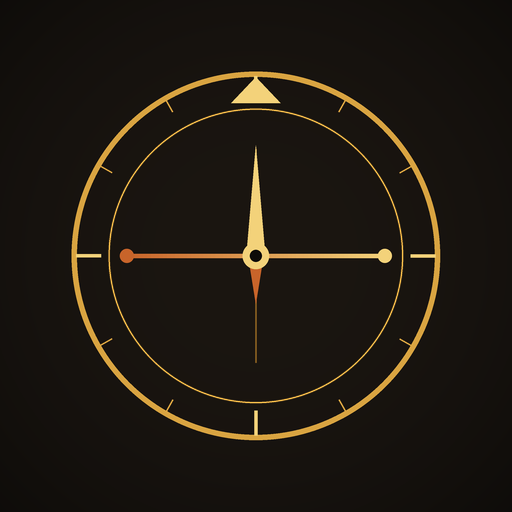
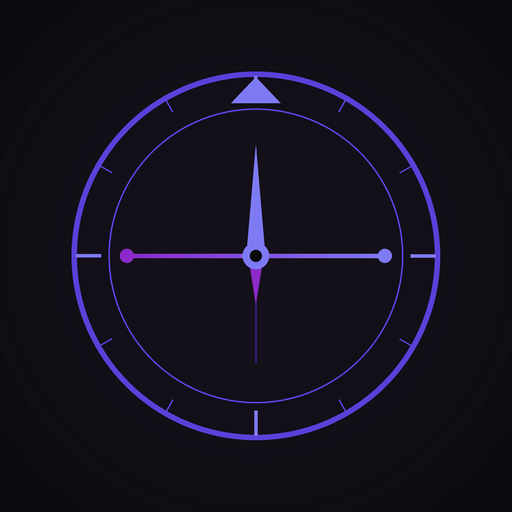
Recolor DRP Compass to indigo, violet, white, and black.
TWGI pages stay sky blue. Service worker cache is twgi-v34.

diff --git a/philosophy/politics/democratic/american/drp/compass/index.html b/philosophy/politics/democratic/american/drp/compass/index.html
@@ -2,7 +2,7 @@
 <html lang="en"><head><meta charset="utf-8"><meta name="viewport" content="width=device-width,initial-scale=1">
 <title>DRP Compass — The Democratic-Republican Party Platform Test</title>
 <link rel="manifest" href="/philosophy/politics/democratic/american/drp/compass/manifest.webmanifest">
-<meta name="theme-color" content="#d9a441">
+<meta name="theme-color" content="#6366f1">
 <meta name="mobile-web-app-capable" content="yes">
 <meta name="apple-mobile-web-app-capable" content="yes">
 <meta name="apple-mobile-web-app-status-bar-style" content="black">
@@ -12,14 +12,14 @@
 <link rel="preconnect" href="https://fonts.googleapis.com"><link href="https://fonts.googleapis.com/css2?family=Cormorant+Garamond:wght@500;600;700&family=Inter:wght@400;500;600&family=Roboto:wght@500&display=swap" rel="stylesheet">
 <link rel="stylesheet" href="/assets/site.css">
 <style>
-:root{--bg:#0d0b09;--panel:#17130f;--line:#2c241b;--gold:#d9a441;--gold2:#f3d27a;--ember:#c8642a;--text:#efe6d6;--mute:#9d907c;--lib:#e8b04a;--con:#b5562b}
+:root{--bg:#000000;--panel:#100e18;--line:#2e2a44;--gold:#a5b4fc;--gold2:#eef0ff;--ember:#c4b5fd;--text:#ffffff;--mute:#b7b2c9;--lib:#a5b4fc;--con:#d8b4fe}
 *{box-sizing:border-box}html{color-scheme:dark}html,body{margin:0;min-height:100%}
-body{background:radial-gradient(1200px 600px at 50% -10%,#2a1c0e 0%,transparent 60%),radial-gradient(800px 500px at 50% 120%,#1e130a 0%,transparent 60%),var(--bg);color:var(--text);font-family:Inter,system-ui,-apple-system,Segoe UI,Roboto,sans-serif;display:flex;flex-direction:column;align-items:center;padding:0 0 40px;min-height:100vh}
+body{background:radial-gradient(1200px 600px at 50% -10%,#1e1848 0%,transparent 60%),radial-gradient(800px 500px at 50% 120%,#160e30 0%,transparent 60%),var(--bg);color:var(--text);font-family:Inter,system-ui,-apple-system,Segoe UI,Roboto,sans-serif;display:flex;flex-direction:column;align-items:center;padding:0 0 40px;min-height:100vh}
 h1,h2,.serif{font-family:"Cormorant Garamond",Georgia,serif}
 .wrap{width:100%;max-width:760px;padding:28px 16px 0}
 .wrap > header{text-align:center;margin-bottom:22px}
-.sigil{width:54px;height:54px;margin:0 auto 10px;border:1px solid var(--gold);border-radius:50%;display:grid;place-items:center;color:var(--gold);font-size:24px;box-shadow:0 0 30px #d9a44133 inset,0 0 24px #d9a44122}
-h1{font-size:clamp(40px,8vw,64px);margin:0;letter-spacing:.04em;background:linear-gradient(180deg,var(--gold2),var(--gold) 55%,#9a6a22);-webkit-background-clip:text;background-clip:text;color:transparent}
+.sigil{width:54px;height:54px;margin:0 auto 10px;border:1px solid var(--gold);border-radius:50%;display:grid;place-items:center;color:var(--gold);font-size:24px;box-shadow:0 0 30px #a5b4fc33 inset,0 0 24px #a5b4fc22}
+h1{font-size:clamp(40px,8vw,64px);margin:0;letter-spacing:.04em;background:linear-gradient(180deg,var(--gold2),var(--gold) 55%,#4338ca);-webkit-background-clip:text;background-clip:text;color:transparent}
 .sub{color:var(--mute);letter-spacing:.18em;text-transform:uppercase;font-size:12px;margin-top:6px}
 .accountbar{display:flex;flex-wrap:wrap;gap:8px 14px;justify-content:center;align-items:center;margin-top:14px}
 .whoami{font-family:"Cormorant Garamond",Georgia,serif;font-size:22px;line-height:1;color:var(--gold2)}
@@ -27,68 +27,68 @@ h1{font-size:clamp(40px,8vw,64px);margin:0;letter-spacing:.04em;background:linea
 .textbtn{background:none;border:0;padding:0;color:var(--gold);cursor:pointer;font:inherit;font-size:13px;letter-spacing:.04em}
 a.textbtn{text-decoration:none}
 .textbtn:hover{color:var(--gold2);text-decoration:underline}
-.textbtn.danger{color:#e07a48}
-.switcher{background:#1a1510;color:var(--text);border:1px solid var(--line);border-radius:8px;padding:6px 8px;font:inherit;font-size:13px;max-width:100%}
+.textbtn.danger{color:#e9d5ff}
+.switcher{background:#14121c;color:var(--text);border:1px solid var(--line);border-radius:8px;padding:6px 8px;font:inherit;font-size:13px;max-width:100%}
 .field{display:block;text-align:left;margin:14px 0;color:var(--mute);font-size:12px;letter-spacing:.08em;text-transform:uppercase}
-.field input,.field textarea,.note-box textarea,.editnote textarea{display:block;width:100%;margin-top:6px;background:#120e0b;color:var(--text);border:1px solid var(--line);border-radius:10px;padding:12px;font:inherit;font-size:15px;letter-spacing:0;text-transform:none}
-.form-error{color:#e07a48;font-size:14px;text-align:left;margin:0}
+.field input,.field textarea,.note-box textarea,.editnote textarea{display:block;width:100%;margin-top:6px;background:#0c0a12;color:var(--text);border:1px solid var(--line);border-radius:10px;padding:12px;font:inherit;font-size:15px;letter-spacing:0;text-transform:none}
+.form-error{color:#e9d5ff;font-size:14px;text-align:left;margin:0}
 .note-box{margin-top:8px;text-align:left}
-.prompt{color:#d9cfbf;font-size:15px;line-height:1.55;margin:18px 0 0}
-.hrow{border:1px solid var(--line);border-radius:14px;padding:14px 14px 12px;margin:12px 0;background:#140f0c;text-align:left}
+.prompt{color:#e8e6f2;font-size:15px;line-height:1.55;margin:18px 0 0}
+.hrow{border:1px solid var(--line);border-radius:14px;padding:14px 14px 12px;margin:12px 0;background:#120f1c;text-align:left}
 .hmeta{display:flex;flex-wrap:wrap;gap:8px 14px;align-items:baseline}
 .hmeta b{font-family:"Cormorant Garamond",Georgia,serif;font-size:28px;color:var(--gold2);font-weight:600}
-.hmeta b.neg{color:#e07a48}
+.hmeta b.neg{color:#e9d5ff}
 .hmeta time,.hmeta .hlabel{color:var(--mute);font-size:13px}
-.hnote{color:#d2c6b6;font-size:14px;line-height:1.45;margin:8px 0}
+.hnote{color:#d5d2e6;font-size:14px;line-height:1.45;margin:8px 0}
 .hactions{display:flex;flex-wrap:wrap;gap:14px;align-items:center}
 .editnote{margin-top:10px}
 .chart{width:100%;height:auto;display:block;margin:4px 0 8px}
-.signed-box{margin-top:22px;padding-top:16px;border-top:1px solid var(--line);text-align:left;color:#d9cfbf}
+.signed-box{margin-top:22px;padding-top:16px;border-top:1px solid var(--line);text-align:left;color:#e8e6f2}
 .signed-box a{color:var(--gold)}
-.card{background:linear-gradient(180deg,#1b1611,#130f0c);border:1px solid var(--line);border-radius:18px;padding:clamp(22px,5vw,40px);box-shadow:0 20px 60px #0008,0 0 0 1px #ffffff05 inset;position:relative;overflow:hidden}
+.card{background:linear-gradient(180deg,#161326,#0c0a12);border:1px solid var(--line);border-radius:18px;padding:clamp(22px,5vw,40px);box-shadow:0 20px 60px #0008,0 0 0 1px #ffffff05 inset;position:relative;overflow:hidden}
 .card:before{content:"";position:absolute;inset:0 0 auto 0;height:2px;background:linear-gradient(90deg,transparent,var(--gold),transparent);opacity:.7}
 .screen{display:none;animation:in .5s ease both}.screen.on{display:block}
 @keyframes in{from{opacity:0;transform:translateY(12px)}to{opacity:1;transform:none}}
 .out{animation:out .28s ease both}@keyframes out{to{opacity:0;transform:translateX(-24px)}}
-p.lead{font-size:17px;line-height:1.65;color:#d9cfbf}
-.btn{appearance:none;border:1px solid var(--gold);background:linear-gradient(180deg,#e2b04f,#b9842c);color:#1a1207;font-weight:600;font-size:16px;padding:14px 26px;border-radius:12px;cursor:pointer;transition:transform .15s,box-shadow .2s,filter .2s;box-shadow:0 6px 24px #d9a44133}
-.btn:hover{transform:translateY(-1px);box-shadow:0 10px 30px #d9a44155;filter:brightness(1.05)}
+p.lead{font-size:17px;line-height:1.65;color:#e8e6f2}.card p,.card li{color:#e8e6f2}
+.btn{appearance:none;border:1px solid var(--gold);background:linear-gradient(180deg,#e0e7ff,#818cf8);color:#120e24;font-weight:600;font-size:16px;padding:14px 26px;border-radius:12px;cursor:pointer;transition:transform .15s,box-shadow .2s,filter .2s;box-shadow:0 6px 24px #a5b4fc33}
+.btn:hover{transform:translateY(-1px);box-shadow:0 10px 30px #a5b4fc55;filter:brightness(1.05)}
 .btn.ghost{background:transparent;color:var(--gold2)}
 .center{text-align:center}
-.progress{height:6px;background:#241d16;border-radius:99px;overflow:hidden;margin:4px 0 22px}
+.progress{height:6px;background:#1a1730;border-radius:99px;overflow:hidden;margin:4px 0 22px}
 .progress i{display:block;height:100%;width:0;background:linear-gradient(90deg,var(--ember),var(--gold),var(--gold2));border-radius:99px;transition:width .6s cubic-bezier(.2,.8,.2,1);box-shadow:0 0 12px var(--gold)}
 .meta{display:flex;justify-content:space-between;color:var(--mute);font-size:13px;letter-spacing:.08em;text-transform:uppercase}
 .qtitle{color:var(--gold);font-size:13px;letter-spacing:.2em;text-transform:uppercase;margin:6px 0 10px}
 .stmt{font-family:"Cormorant Garamond",Georgia,serif;font-size:clamp(24px,4.6vw,34px);line-height:1.3;margin:0 0 30px;min-height:3.2em}
 .versions{display:grid;grid-template-columns:1fr 1fr;gap:12px;margin:18px 0 6px;text-align:left}
-.version{appearance:none;padding:14px 14px 12px;border-radius:14px;border:1px solid var(--line);background:#1d1813;color:var(--text);cursor:pointer;font:inherit;text-align:left}
+.version{appearance:none;padding:14px 14px 12px;border-radius:14px;border:1px solid var(--line);background:#161222;color:var(--text);cursor:pointer;font:inherit;text-align:left}
 .version b{display:block;font-family:"Cormorant Garamond",Georgia,serif;font-size:26px;font-weight:600;color:var(--gold2);line-height:1.1}
 .version span{display:block;margin-top:6px;color:var(--mute);font-size:13px;line-height:1.45;font-weight:400}
-.version.on{border-color:var(--gold);background:#251d14;box-shadow:0 0 0 1px #d9a44155}
+.version.on{border-color:var(--gold);background:#221c38;box-shadow:0 0 0 1px #a5b4fc55}
 .version:hover{border-color:var(--gold)}
 .choices{display:grid;grid-template-columns:1fr 1fr;gap:14px}
-.choice{padding:18px;border-radius:14px;border:1px solid var(--line);background:#1d1813;color:var(--text);font-size:17px;font-weight:600;cursor:pointer;transition:all .18s}
-.choice:hover{border-color:var(--gold);background:#251d14;transform:translateY(-2px)}
-.choice:disabled,.choice:disabled:hover{opacity:.4;cursor:not-allowed;transform:none;border-color:var(--line);background:#1d1813}
+.choice{padding:18px;border-radius:14px;border:1px solid var(--line);background:#161222;color:var(--text);font-size:17px;font-weight:600;cursor:pointer;transition:all .18s}
+.choice:hover{border-color:var(--gold);background:#221c38;transform:translateY(-2px)}
+.choice:disabled,.choice:disabled:hover{opacity:.4;cursor:not-allowed;transform:none;border-color:var(--line);background:#161222}
 .meter{margin:0 0 18px;text-align:left}
 .meter-top{display:flex;justify-content:space-between;align-items:baseline;gap:12px;color:var(--mute);font-size:12px;letter-spacing:.08em;text-transform:uppercase}
 .meter-top b{color:var(--gold2);font-family:"Cormorant Garamond",Georgia,serif;font-size:28px;letter-spacing:0;text-transform:none;font-weight:600}
-.meter input[type=range]{width:100%;margin:10px 0 0;accent-color:#d9a441;cursor:pointer}
-.meter.unset input[type=range]{accent-color:#5a4a38}
-.meter-hint{color:#e07a48;font-size:14px;line-height:1.45;margin:8px 0 0}
+.meter input[type=range]{width:100%;margin:10px 0 0;accent-color:#a5b4fc;cursor:pointer}
+.meter.unset input[type=range]{accent-color:#4a4568}
+.meter-hint{color:#e9d5ff;font-size:14px;line-height:1.45;margin:8px 0 0}
 .choice small{display:block;font-weight:400;color:var(--mute);font-size:12px;margin-top:4px}
 .back{margin-top:18px;background:none;border:0;color:var(--mute);cursor:pointer;font-size:14px}.back:disabled{opacity:.3;cursor:default}
 .graph{position:relative;height:120px;margin:30px 6px 8px}
-.axis{position:absolute;left:0;right:0;top:60px;height:4px;border-radius:4px;background:linear-gradient(90deg,var(--con),#6b4a2a 50%,var(--lib))}
-.tick{position:absolute;top:52px;width:1px;height:20px;background:#5a4a38}.tick.major{height:28px;top:48px;background:#8a7356}
+.axis{position:absolute;left:0;right:0;top:60px;height:4px;border-radius:4px;background:linear-gradient(90deg,var(--con),#6a648c 50%,var(--lib))}
+.tick{position:absolute;top:52px;width:1px;height:20px;background:#4a4568}.tick.major{height:28px;top:48px;background:#908aab}
 .tl{position:absolute;top:84px;transform:translateX(-50%);font-size:12px;color:var(--mute)}
 .marker{position:absolute;top:22px;left:50%;transform:translateX(-50%);transition:left 1.8s cubic-bezier(.2,.9,.2,1)}
-.marker .dot{width:22px;height:22px;border-radius:50%;background:radial-gradient(circle at 35% 35%,#fff3c4,var(--gold) 50%,#8a5a1a);margin:27px auto 0;box-shadow:0 0 0 4px #d9a44133,0 0 28px var(--gold)}
+.marker .dot{width:22px;height:22px;border-radius:50%;background:radial-gradient(circle at 35% 35%,#f4f2ff,var(--gold) 50%,#3730a3);margin:27px auto 0;box-shadow:0 0 0 4px #a5b4fc33,0 0 28px var(--gold)}
 .marker .lbl{position:absolute;top:-6px;left:50%;transform:translateX(-50%);font-family:"Cormorant Garamond",serif;font-size:26px;font-weight:700;color:var(--gold2);white-space:nowrap}
 .ends{display:flex;justify-content:space-between;font-size:12px;letter-spacing:.16em;text-transform:uppercase}
 .ends .c{color:var(--con)}.ends .l{color:var(--lib)}
 .stats{display:grid;grid-template-columns:1fr 1fr;gap:14px;margin:26px 0}
-.stat{border:1px solid var(--line);border-radius:14px;padding:16px;text-align:center;background:#1a1510}
+.stat{border:1px solid var(--line);border-radius:14px;padding:16px;text-align:center;background:#14121c}
 .stat b{display:block;font-family:"Cormorant Garamond",serif;font-size:42px}
 .stat.l b{color:var(--lib)}.stat.c b{color:var(--con)}
 .stat span{color:var(--mute);font-size:12px;letter-spacing:.14em;text-transform:uppercase}
@@ -96,13 +96,13 @@ p.lead{font-size:17px;line-height:1.65;color:#d9cfbf}
 .align{margin:14px 0 0;text-align:center}
 .align-heading{font-family:"Cormorant Garamond",Georgia,serif;font-size:clamp(26px,4vw,34px);font-weight:600;color:var(--gold2);margin:0;line-height:1.2}
 .align-band{margin:6px 0 0;color:var(--gold);letter-spacing:.16em;text-transform:uppercase;font-size:12px}
-.align-explain{color:#d9cfbf;font-size:15px;line-height:1.55;margin:12px auto 0;max-width:62ch;text-align:left}
+.align-explain{color:#e8e6f2;font-size:15px;line-height:1.55;margin:12px auto 0;max-width:62ch;text-align:left}
 .align-lists{display:grid;grid-template-columns:1fr;gap:10px;margin-top:14px;text-align:left}
-.align-col{background:#140f0c;border:1px solid var(--line);border-radius:12px;padding:12px 14px 10px}
+.align-col{background:#120f1c;border:1px solid var(--line);border-radius:12px;padding:12px 14px 10px}
 .align-col h4{margin:0 0 8px;font-family:Inter,system-ui,sans-serif;font-size:11px;font-weight:600;letter-spacing:.14em;text-transform:uppercase}
 .align-col.match h4{color:var(--gold2)}
-.align-col.diff h4{color:#e08a55}
-.align-col ul{margin:0;padding-left:18px;color:#d9cfbf;font-size:14px;line-height:1.45}
+.align-col.diff h4{color:#e9d5ff}
+.align-col ul{margin:0;padding-left:18px;color:#e8e6f2;font-size:14px;line-height:1.45}
 .align-col li{margin:3px 0}
 .align-col b{color:var(--gold2);font-weight:600}
 .align-more{color:var(--mute);font-size:13px;margin:8px 0 0}
@@ -116,36 +116,36 @@ p.lead{font-size:17px;line-height:1.65;color:#d9cfbf}
 .gsi-material-button:not(:disabled):hover{box-shadow:0 1px 2px 0 rgba(60,64,67,.3),0 1px 3px 1px rgba(60,64,67,.15)}
 .gsi-material-button:not(:disabled):hover .gsi-material-button-state,.gsi-material-button:not(:disabled):focus-visible .gsi-material-button-state{background:#001d35;opacity:.08}
 .gsi-material-button:not(:disabled):active .gsi-material-button-state{background:#001d35;opacity:.12}
-.gsi-material-button:focus-visible{outline:2px solid #d9a441;outline-offset:2px}
+.gsi-material-button:focus-visible{outline:2px solid #a5b4fc;outline-offset:2px}
 .gsi-material-button:disabled{cursor:default;background:#ffffff61;border-color:#1f1f1f1f;box-shadow:none}
 [hidden]{display:none!important}
 details{margin-top:24px;border-top:1px solid var(--line);padding-top:16px}
 summary{cursor:pointer;color:var(--gold2);font-weight:500}
 .row{display:grid;grid-template-columns:28px 1fr auto;gap:10px;font-size:14px;align-items:start}
-.row .n{color:var(--mute)}.row .t{color:#d9cfbf}.row .t em{display:block;color:var(--mute);font-style:normal;font-size:12px;margin-top:2px}
-.issue{padding:14px 0;border-bottom:1px solid #221b14}
+.row .n{color:var(--mute)}.row .t{color:#e8e6f2}.row .t em{display:block;color:var(--mute);font-style:normal;font-size:12px;margin-top:2px}
+.issue{padding:14px 0;border-bottom:1px solid #241f36}
 .issue:last-child{border-bottom:0;padding-bottom:2px}
 .figures{display:grid;grid-template-columns:1fr;gap:10px;margin-top:12px}
-.who{min-width:0;background:#140f0c;border:1px solid var(--line);border-radius:12px;padding:12px 12px 10px}
-.who.agree{border-color:#d9a44155}.who.disagree{border-color:#c8642a55}
+.who{min-width:0;background:#120f1c;border:1px solid var(--line);border-radius:12px;padding:12px 12px 10px}
+.who.agree{border-color:#a5b4fc55}.who.disagree{border-color:#c4b5fd55}
 .who h3{margin:0 0 8px;font-family:Inter,system-ui,sans-serif;font-size:11px;font-weight:600;letter-spacing:.16em;text-transform:uppercase}
-.who.agree h3{color:var(--gold2)}.who.disagree h3{color:#e08a55}
-.fig+.fig{margin-top:8px;padding-top:8px;border-top:1px solid #2a221b}
+.who.agree h3{color:var(--gold2)}.who.disagree h3{color:#e9d5ff}
+.fig+.fig{margin-top:8px;padding-top:8px;border-top:1px solid #2a2540}
 .fig .nm{font-family:"Cormorant Garamond",Georgia,serif;font-size:18px;font-weight:600;line-height:1.25;color:var(--text)}
 .fig .yrs{font-family:Inter,system-ui,sans-serif;font-weight:500;color:var(--mute);font-size:12px;margin-left:.4em;white-space:nowrap}
-.fig .note{margin:3px 0 0;color:#d2c6b6;font-size:13px;line-height:1.45}
+.fig .note{margin:3px 0 0;color:#d5d2e6;font-size:13px;line-height:1.45}
 .fig a{display:inline-block;margin-top:4px;color:var(--gold);font-size:12px;line-height:1.35;text-decoration:none;overflow-wrap:anywhere}
 .fig a:hover{color:var(--gold2);text-decoration:underline}
 .pill{font-size:11px;padding:3px 9px;border-radius:99px;text-transform:uppercase;letter-spacing:.1em;white-space:nowrap}
-.pill.liberal{background:#e8b04a22;color:var(--lib);border:1px solid #e8b04a55}.pill.conservative{background:#b5562b22;color:#e07a48;border:1px solid #b5562b66}
+.pill.liberal{background:#a5b4fc22;color:var(--lib);border:1px solid #a5b4fc55}.pill.conservative{background:#d8b4fe22;color:#e9d5ff;border:1px solid #d8b4fe66}
 .legend{margin:14px 0 2px;color:var(--mute);font-size:12px;line-height:1.55}
 .sidepill{display:inline-block;padding:1px 7px;border-radius:99px;font-family:Inter,system-ui,sans-serif;font-size:10px;font-weight:600;letter-spacing:.02em;white-space:nowrap;vertical-align:1px;line-height:1.6}
-.sidepill.left{background:#2f6fdb;color:#fff;border:1px solid #2f6fdb}
-.sidepill.right{background:#d33a2c;color:#fff;border:1px solid #d33a2c}
+.sidepill.left{background:#4f46e5;color:#fff;border:1px solid #4f46e5}
+.sidepill.right{background:#7c3aed;color:#fff;border:1px solid #7c3aed}
 .fig .sidepill{margin-left:.45em;vertical-align:2px}
 .legend .sidepill{margin-right:.28em}
-.toast{position:fixed;bottom:24px;left:50%;transform:translate(-50%,40px);opacity:0;background:#241c13;border:1px solid var(--gold);color:var(--gold2);padding:10px 18px;border-radius:10px;transition:all .3s}.toast.show{opacity:1;transform:translate(-50%,0)}
-.wrap > footer{color:#6d6253;font-size:12px;margin-top:22px;text-align:center;line-height:1.6}
+.toast{position:fixed;bottom:24px;left:50%;transform:translate(-50%,40px);opacity:0;background:#161228;border:1px solid var(--gold);color:var(--gold2);padding:10px 18px;border-radius:10px;transition:all .3s}.toast.show{opacity:1;transform:translate(-50%,0)}
+.wrap > footer{color:#8e89a6;font-size:12px;margin-top:22px;text-align:center;line-height:1.6}
 @media(min-width:640px){.figures.pair,.align-lists{grid-template-columns:1fr 1fr}}
 @media(max-width:520px){.choices,.versions{grid-template-columns:1fr}.tl.minor{display:none}.fig .nm{font-size:17px}}
 </style></head><body>
@@ -1639,8 +1639,8 @@ $('#share').onclick=async()=>{const text=shareText();const url=resultUrl();if(na
 function scoreChart(rows){const pts=rows.slice().sort((a,b)=>a.at<b.at?-1:1);if(!pts.length)return'';
  const w=640,h=150,pad=22,y=s=>pad+(h-pad*2)*(1-(s+30)/60),x=i=>pts.length<2?w/2:pad+(w-pad*2)*i/(pts.length-1);
  const d=pts.map((p,i)=>(i?'L':'M')+x(i).toFixed(1)+','+y(p.score).toFixed(1)).join(' ');
- const dots=pts.map((p,i)=>{const align=alignmentText(p.r,p.version,p.strengths);const ver=versionLabel(p.version);return `<circle cx="${x(i).toFixed(1)}" cy="${y(p.score).toFixed(1)}" r="4" fill="#d9a441"><title>${esc((p.score>0?'+':'')+p.score+' '+p.label+' · '+ver+(align?' · '+align:''))}</title></circle>`}).join('');
- return `<svg class="chart" viewBox="0 0 ${w} ${h}" role="img" aria-label="Score over time"><line x1="${pad}" y1="${y(0)}" x2="${w-pad}" y2="${y(0)}" stroke="#2c241b" stroke-width="1"/><path d="${d}" fill="none" stroke="#d9a441" stroke-width="2"/>${dots}</svg>`}
+ const dots=pts.map((p,i)=>{const align=alignmentText(p.r,p.version,p.strengths);const ver=versionLabel(p.version);return `<circle cx="${x(i).toFixed(1)}" cy="${y(p.score).toFixed(1)}" r="4" fill="#a5b4fc"><title>${esc((p.score>0?'+':'')+p.score+' '+p.label+' · '+ver+(align?' · '+align:''))}</title></circle>`}).join('');
+ return `<svg class="chart" viewBox="0 0 ${w} ${h}" role="img" aria-label="Score over time"><line x1="${pad}" y1="${y(0)}" x2="${w-pad}" y2="${y(0)}" stroke="#2e2a44" stroke-width="1"/><path d="${d}" fill="none" stroke="#a5b4fc" stroke-width="2"/>${dots}</svg>`}
 function when(at){try{return new Date(at).toLocaleString(undefined,{month:'short',day:'numeric',year:'numeric',hour:'numeric',minute:'2-digit'})}catch(e){return at}}
 function renderHistory(rows){$('#chart').innerHTML=scoreChart(rows);
  if(!rows.length){$('#history-list').innerHTML='<p class="lead">No saved results yet.</p>';return}

diff --git a/sw.js b/sw.js
@@ -1,4 +1,4 @@
-const CACHE = 'twgi-v33';
+const CACHE = 'twgi-v34';
 const ASSETS = [
   '/',
   '/index.html',
